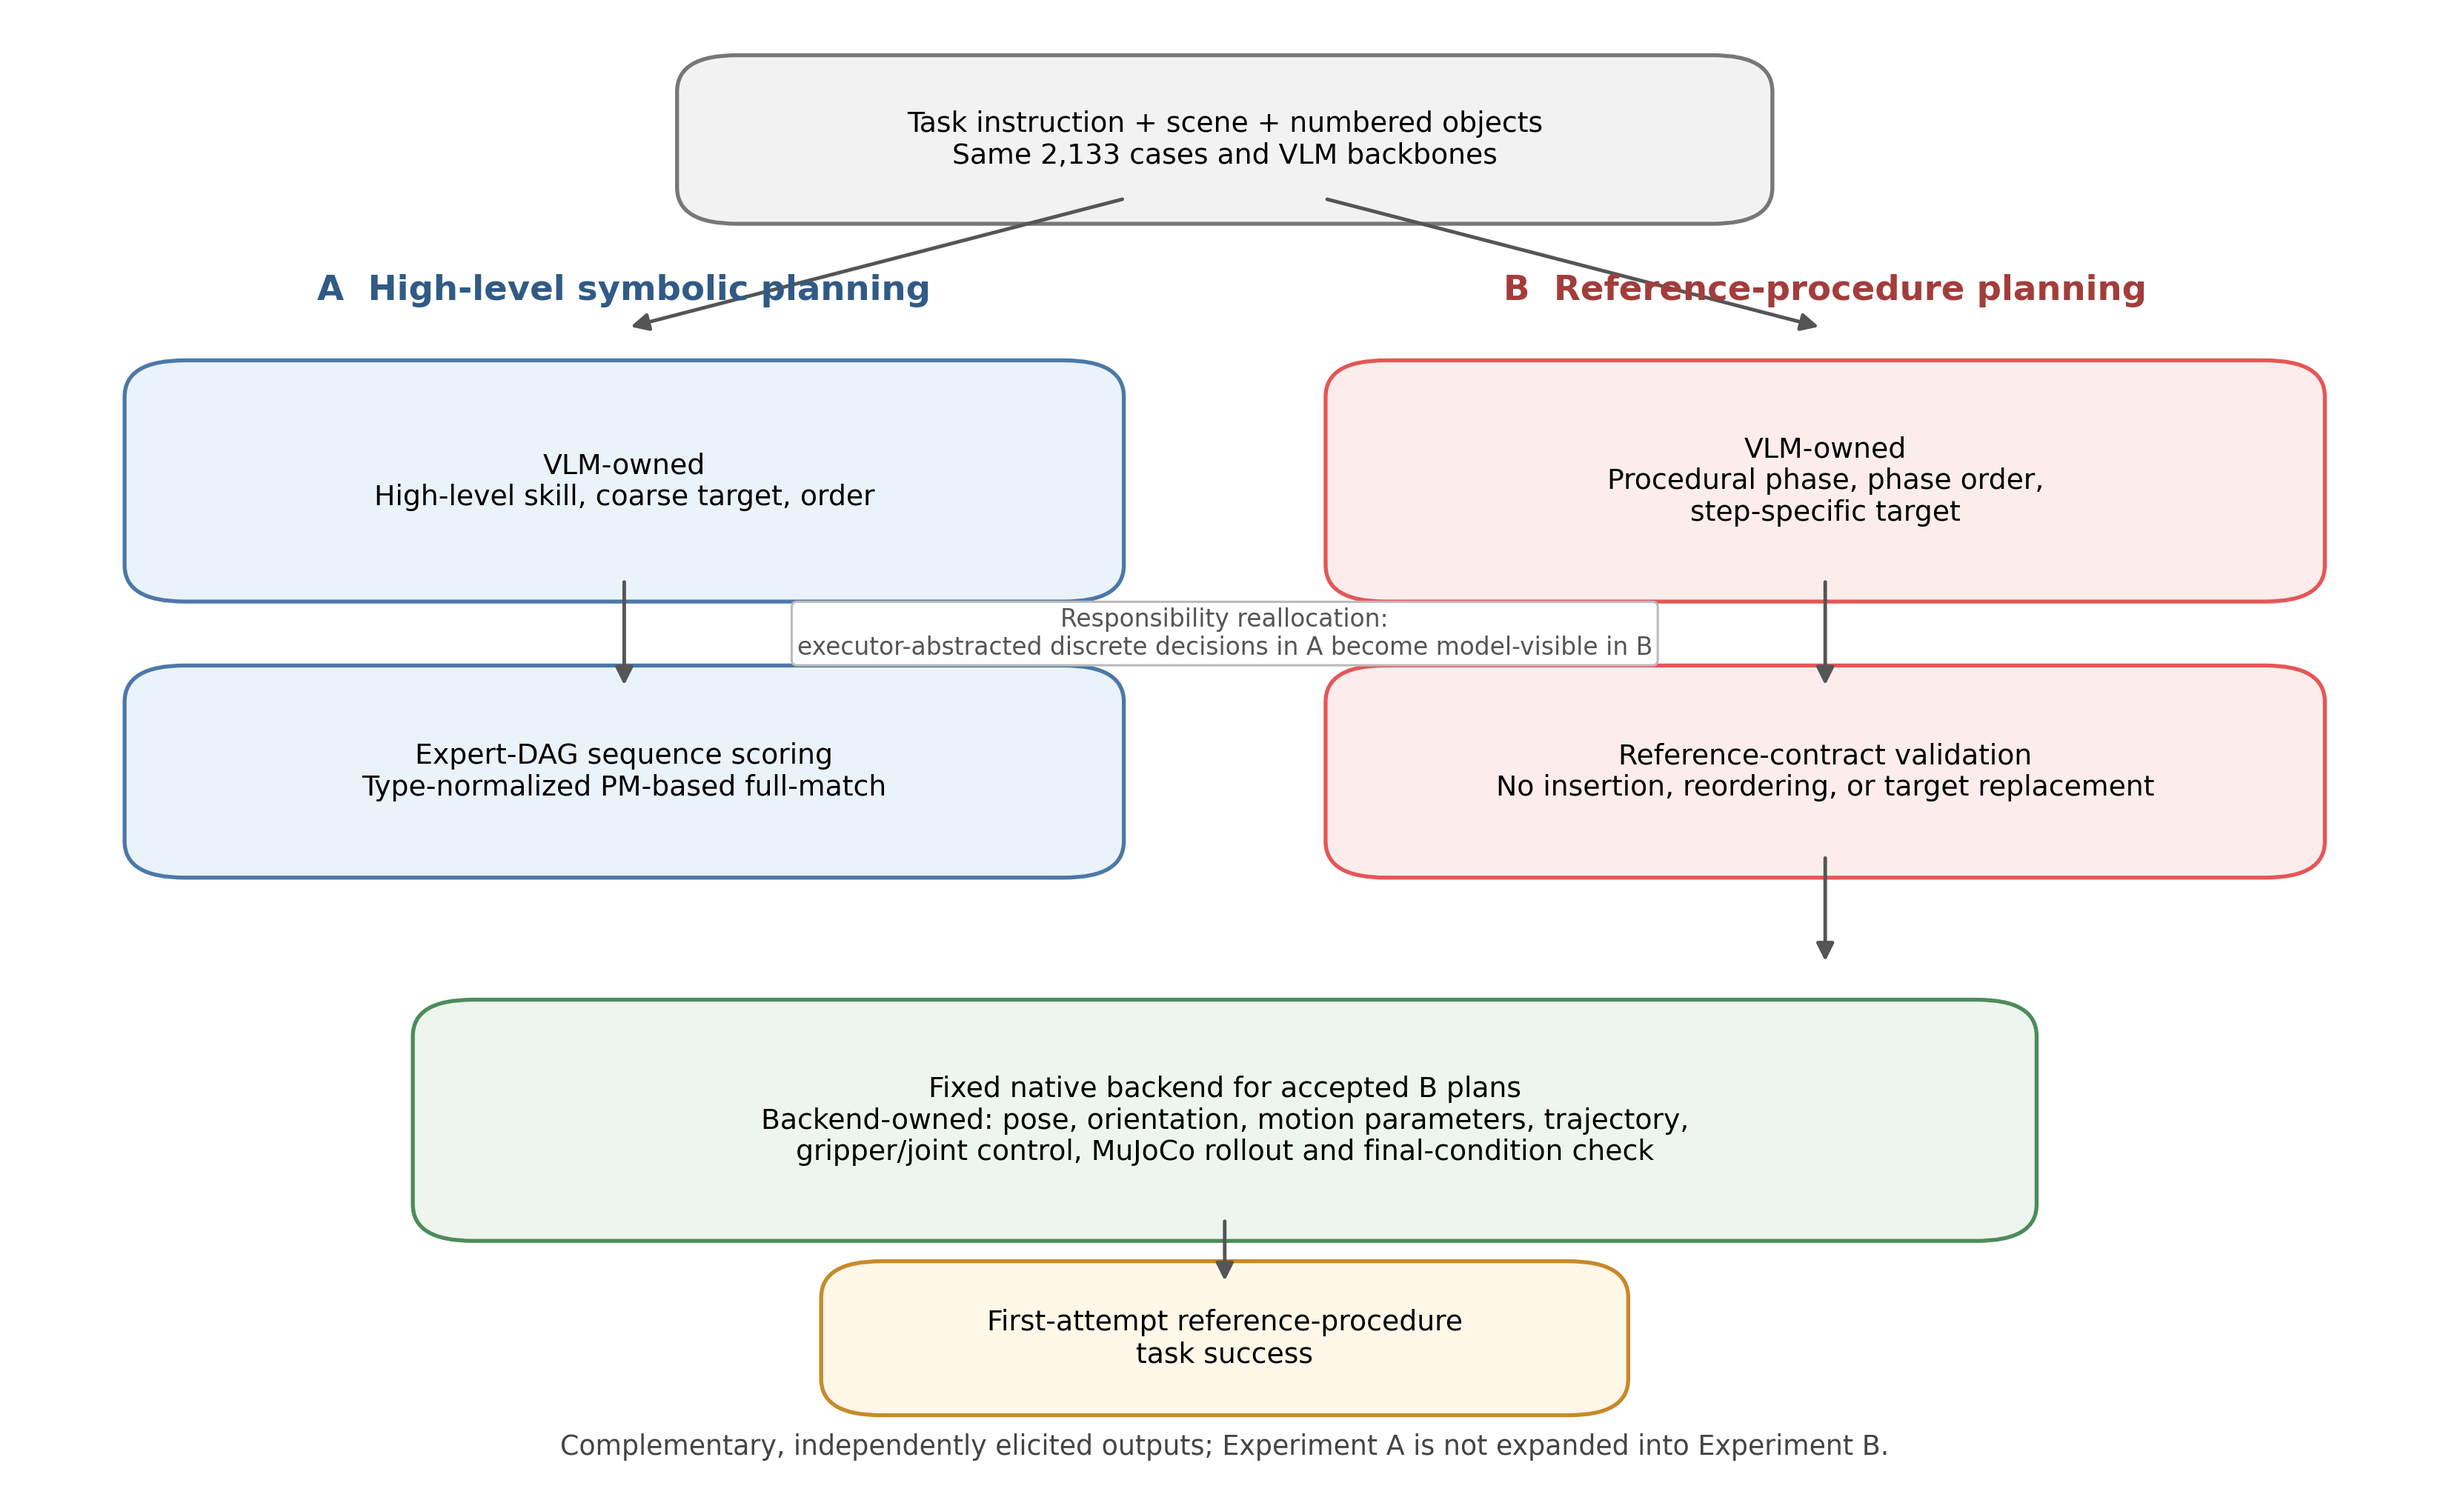
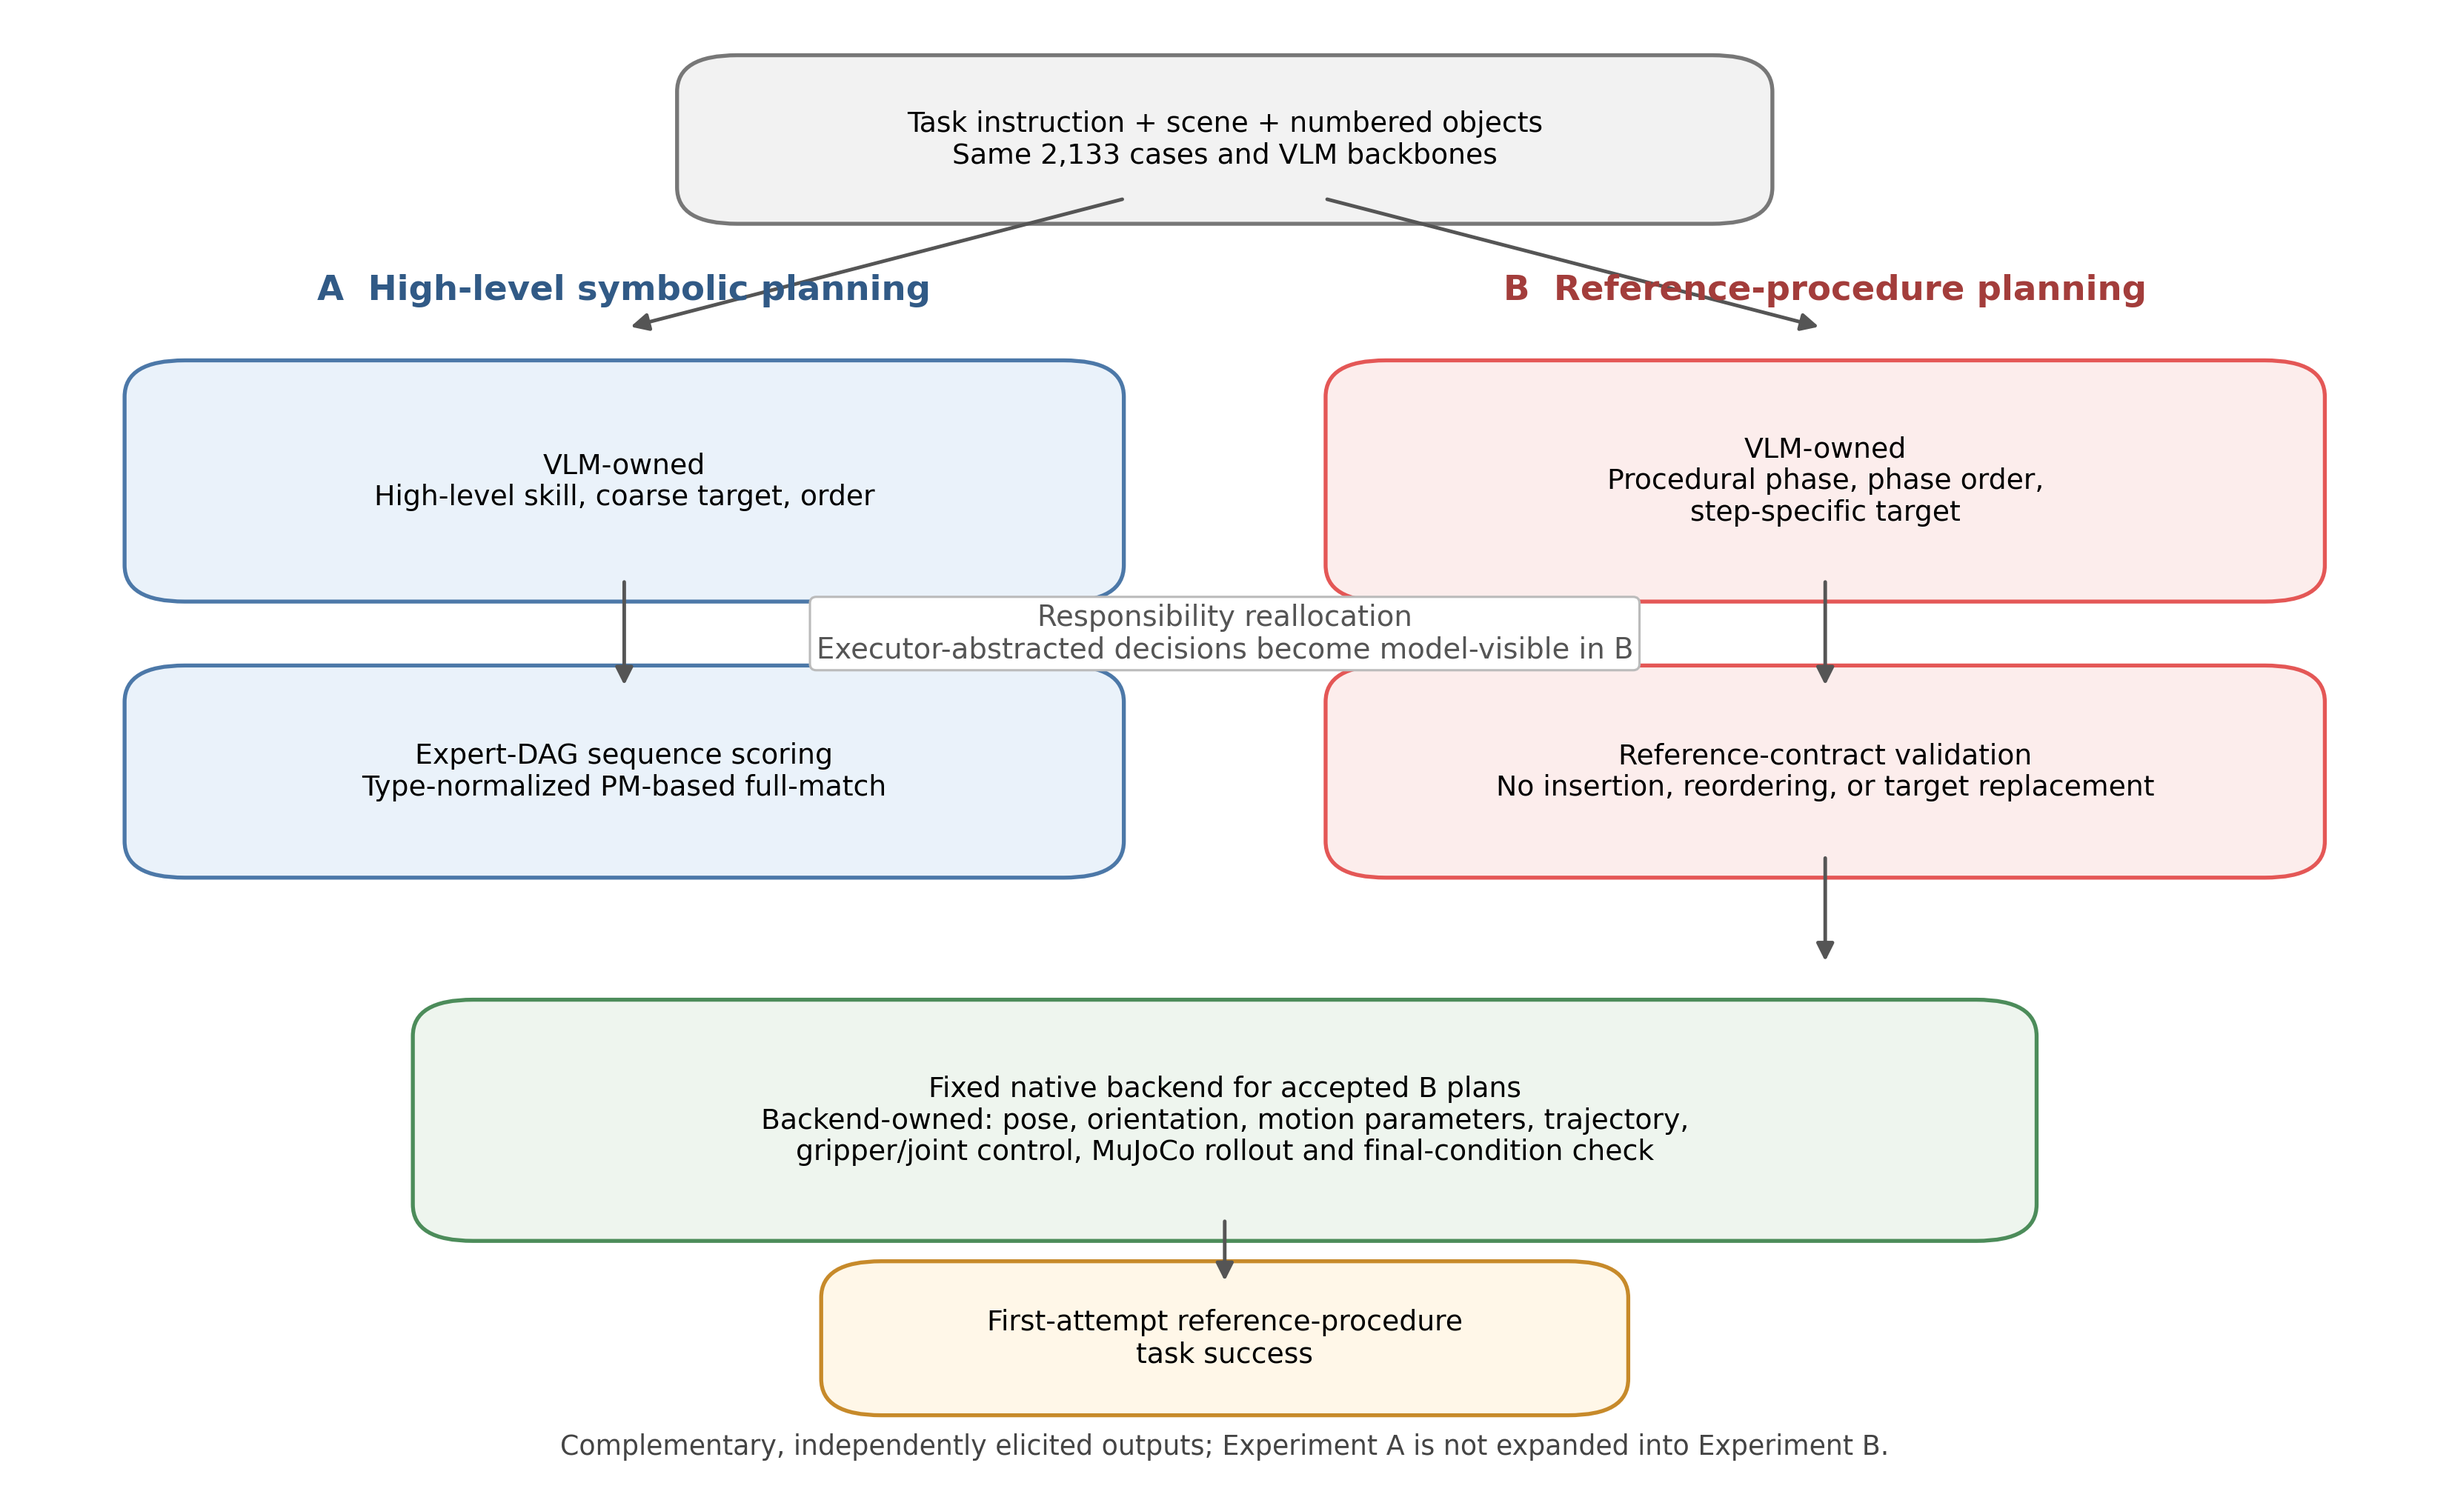
Improve evaluation framework figure readability

Changed region(s): [[0.3116, 0.3733, 0.6856, 0.4667]]

diff --git a/analysis/generate_revision_assets.py b/analysis/generate_revision_assets.py
@@ -671,10 +671,10 @@ def plot_evaluation_framework() -> None:
     ax.text(
         0.50,
         0.58,
-        "Responsibility reallocation:\nexecutor-abstracted discrete decisions in A become model-visible in B",
+        "Responsibility reallocation\nExecutor-abstracted decisions become model-visible in B",
         ha="center",
         va="center",
-        fontsize=7.4,
+        fontsize=8.7,
         color="#555555",
         bbox=dict(boxstyle="round,pad=0.22", facecolor="white", edgecolor="#BBBBBB", linewidth=0.7),
         zorder=5,
